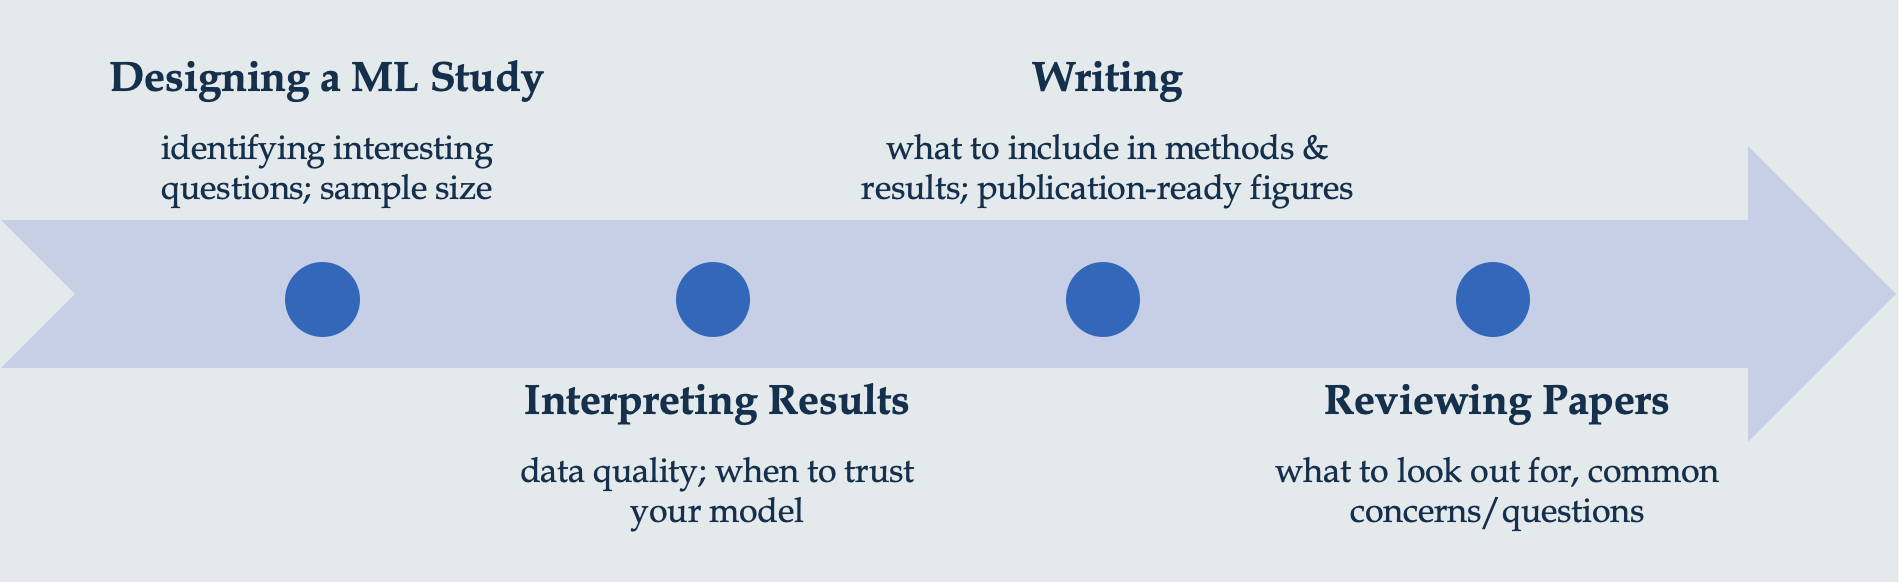
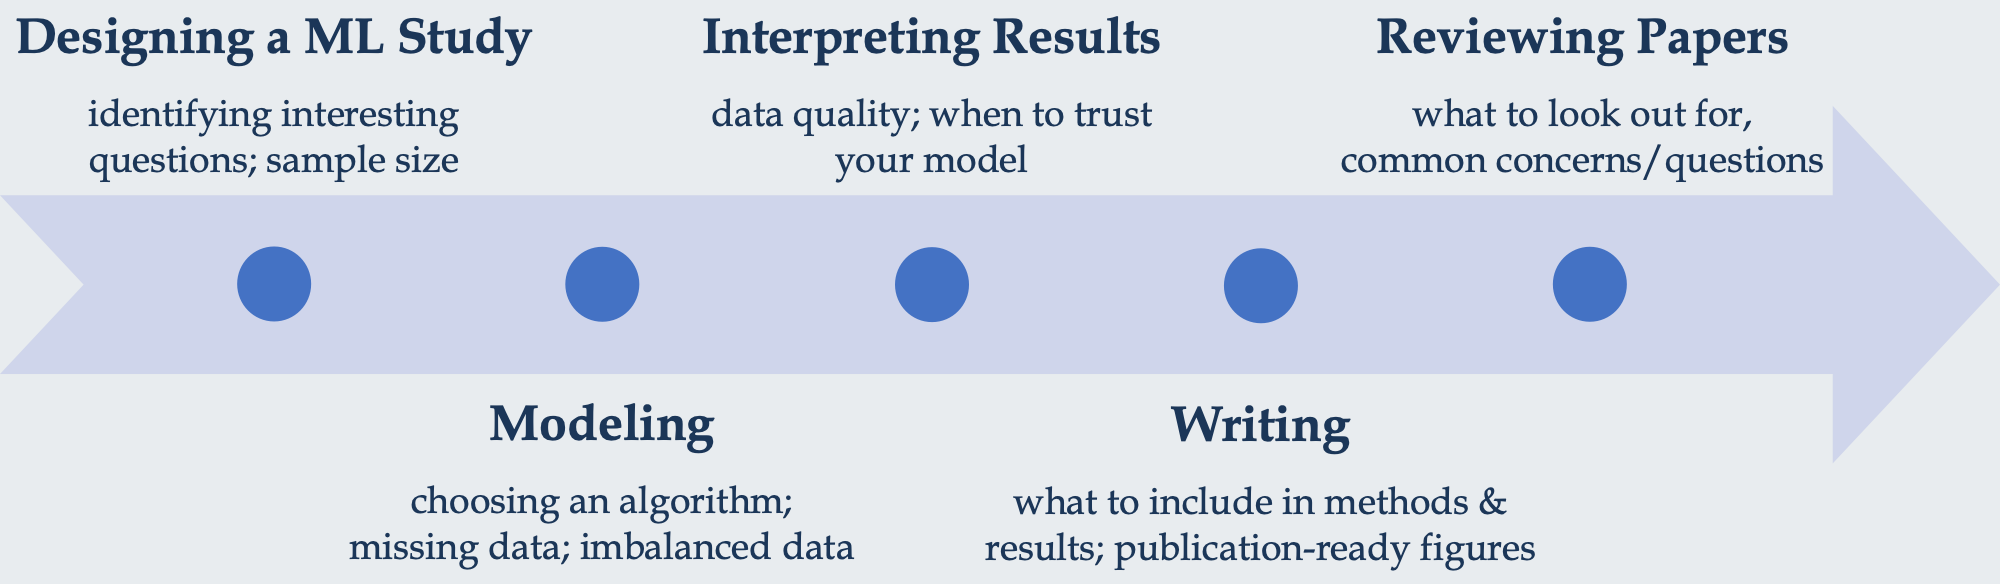
finish section 1 day 4b

diff --git a/devel/Shirley/Day_4B/Day_4B_Slides.html b/devel/Shirley/Day_4B/Day_4B_Slides.html
@@ -50,8 +50,8 @@ a {
 ---
 ## Lecture Topics
 
-&lt;/br&gt;
-&lt;img src="researchworkflow.png" width="100%" height="110%" /&gt;
+&lt;/br&gt;&lt;/br&gt;
+&lt;img src="researchworkflow.png" width="100%" height="115%" /&gt;
 
 ---
 class: inverse, center, middle
@@ -69,6 +69,7 @@ Features used to predict tend to be **cheaper or easier to measure** in new data
 Labels to be predicted tend to be **expensive or difficult to measure** in new data. 
 
 ML models can be used for ![:emphasize](regression) or ![:emphasize](classification) problems.
+
 
 ---
 class: onecol
@@ -109,20 +110,56 @@ class: onecol
 
 ## Sample Size
 
-how much data do you need? 
+One of the most common questions is "how much data do I need for ML"? 
 
-how much can you reasonably collect? 
+There's no straightforward or universal answer, and this is an active area of research.
+
+However, here are some important principles and ![:emphasize](general guidelines).
+
+--
+
+&lt;/br&gt;
+When working with ![:emphasize](smaller sample sizes), use ![:emphasize](simpler models).
+
+Use ![:emphasize](10-fold cross-validation) for smaller samples rather than a single, held-out test set.&lt;sup&gt;1&lt;/sup&gt;
+
+Aim for `\(N \geq p*10\)`,  with a minimum of 30 observations per test set.
+
+.footnote[
+[1] See Kuhn &amp; Johnson (2013), section 4.7 for more details. 
+]
 
 ---
 class: onecol
 
-## Representativeness 
+## Bias and Representativeness 
 
-bias, garbage in garbage out
+Though often heralded as 'objective', algorithms reflect the nature of the data used to train them, and can ![:emphasize](detect, learn, and perpetuate societal injustices).
 
-who is included in your data? 
+Recidivism algorithms are biased against Black defendants, chatbots trained on internet data produce sexist &amp; racist responses, facial recognition works better for White people, and STEM advertisements are less likely to be displayed to women than men.
 
-who is being left out?
+--
+.pull-left[
+&lt;img src="huggingface_man.png" width="62%" height="63%" style="display: block; margin: auto 0 auto auto;" /&gt;
+]
+.pull-right[
+&lt;img src="huggingface_woman.png" width="65%" height="65%" style="display: block; margin: auto auto auto 0;" /&gt;
+]
+
+---
+class: onecol
+
+## Bias and Representativeness
+
+Training a ML model with ![:emphasize](biased data) will produce ![:emphasize](biased predictions).
+
+When designing a study and collecting data, pay attention to who you are including in your sample, and who is being left out. 
+
+Critically evaluate the features and labels you're collecting. 
+
+Are they ![:emphasize](equally valid and reliable) for all groups of people? 
+
+Are they accurate and sensitive at assessing the label of interest for everyone?
 
 ---
 class: onecol
@@ -183,9 +220,11 @@ someone should be able to look at your methods and reproduce your model
 
 want to talk about: 
 
-feature engineering
+feature selection and preprocessing/feature engineering
 
 resampling methods (clear separation between train/test)! 
+
+which algorithms, why, and how many?
 
 hyperparameter tuning
 
@@ -195,8 +234,12 @@ variable importance
 
 model comparison
 
+clearly state sample size for each model
+
 ---
-## Writing Results
+## What to Include in Results
+
+
 
 
 ---
